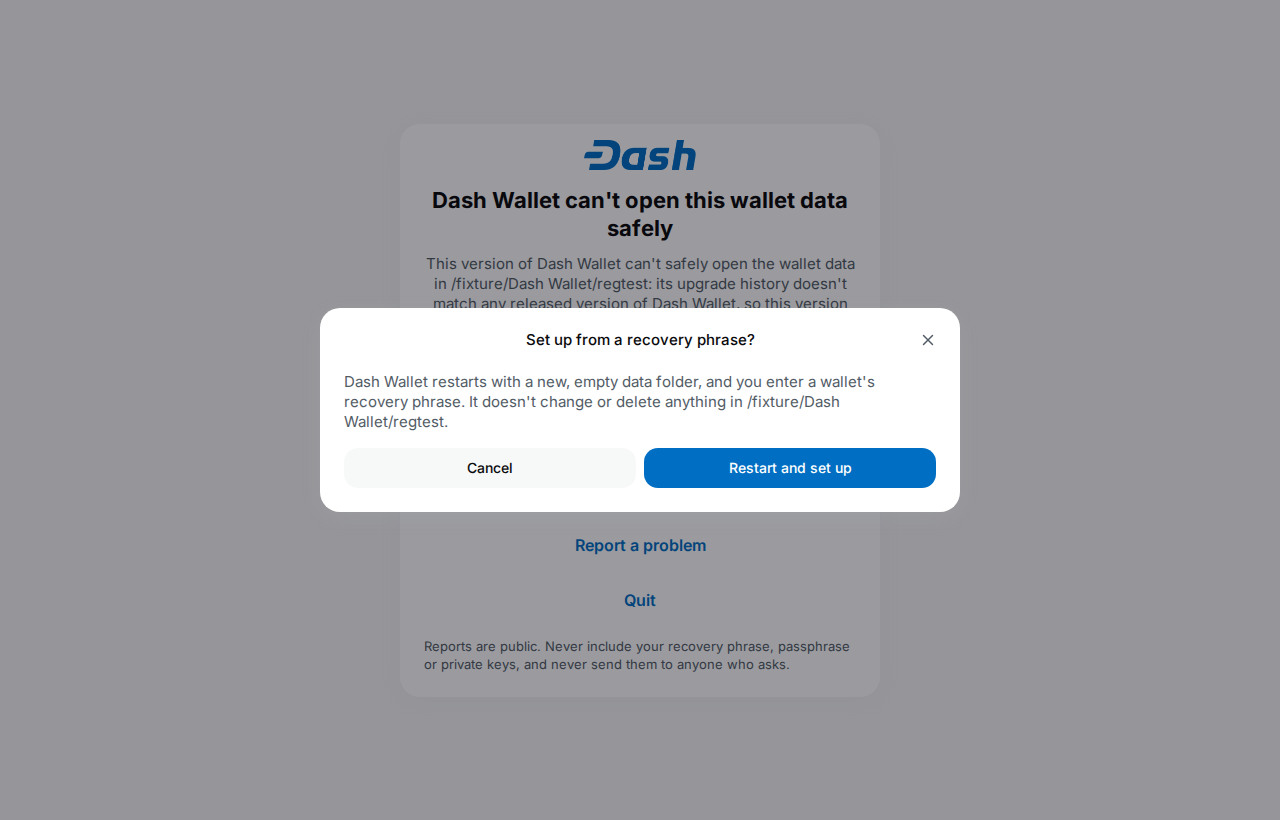
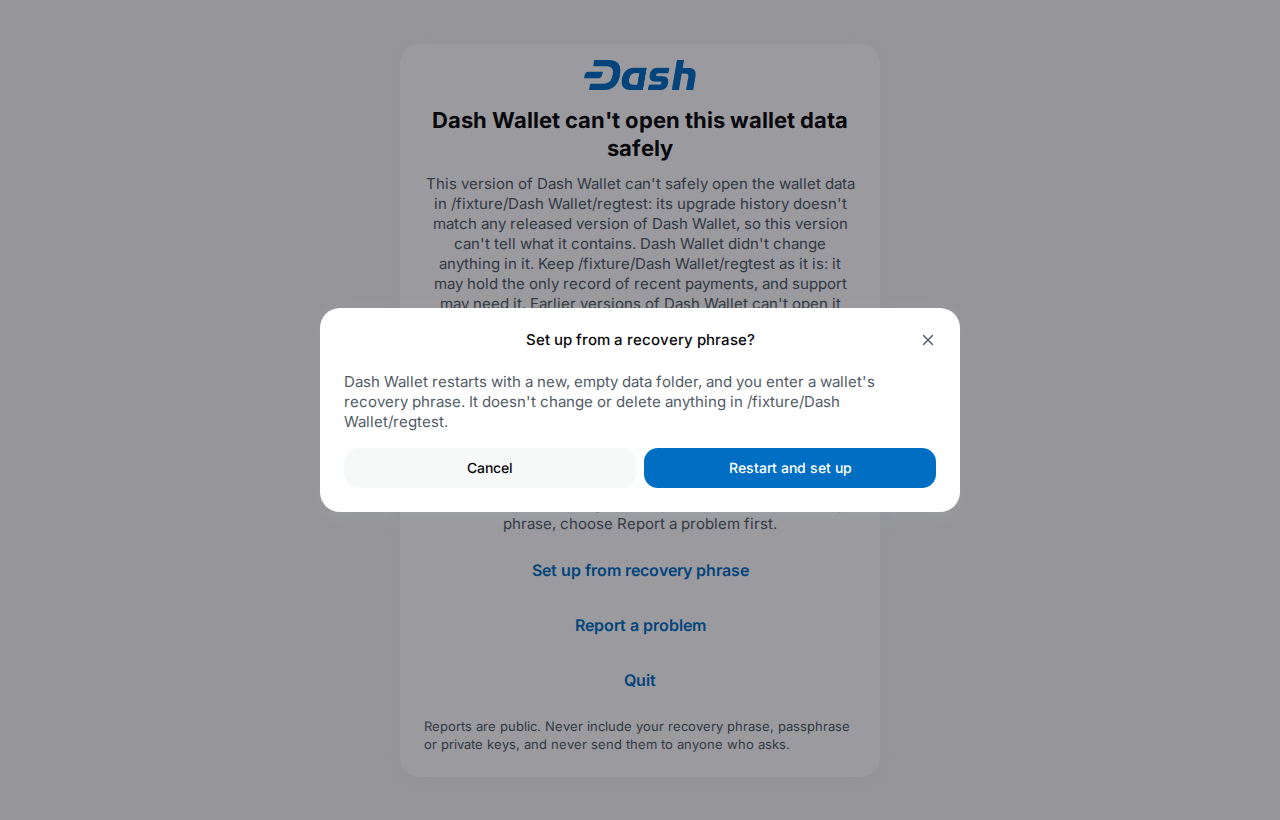
docs: show the retired-backup warning and recovery

diff --git a/dashwallet-desktop/issue-1034/README.md b/dashwallet-desktop/issue-1034/README.md
@@ -1,12 +1,12 @@
 # Restore refusal after an interrupted wallet removal
 
-The Dash Wallet fixture renderer was built independently from both revisions. Each run uses Chromium at 1280 × 820 with English copy and a synthetic regtest folder. The fixture supplies the startup response for an upgraded store whose schema history no longer matches, after wallet removal stopped at the retirement step. Rust integration tests use the committed v0.1.0 wallet stores to verify that the engine refuses to restore a retired snapshot and permits recovery into a fresh folder.
+The Dash Wallet fixture renderer was built independently from both revisions. Each run uses the pinned Playwright Docker image and Chromium at 1280 × 820 with English copy and a synthetic regtest folder. The fixture supplies the startup response for an upgraded store whose schema history no longer matches, after wallet removal stopped at the retirement step. Rust integration tests use the committed v0.1.0 wallet stores to verify that the engine refuses to restore a retired snapshot and permits recovery into a fresh folder.
 
-| State | Before · eebb848bd12b8a7e6fb56aef3b281a852fb880fc | After · cb8b465811aa23d6432a4300d3cb632f106d3a85 |
+| State | Before · eebb848bd12b8a7e6fb56aef3b281a852fb880fc | After · 491d0bd925cb006d82e95263d1e3af14d8317e26 |
 | --- | --- | --- |
 | Startup refusal, light | [Restore earlier data](before-light-refusal.png) | [Set up from recovery phrase](after-light-refusal.png) |
 | Startup refusal, dark | [Restore earlier data](before-dark-refusal.png) | [Set up from recovery phrase](after-dark-refusal.png) |
 | Confirmation, light | [Restart and restore](before-light-confirmation.png) | [Restart and set up](after-light-confirmation.png) |
 | Confirmation, dark | [Restart and restore](before-dark-confirmation.png) | [Restart and set up](after-dark-confirmation.png) |
 
-Each run verified that Cancel closes the confirmation without restarting the app.
+The updated refusal names the retirement and explains that payment holds and in-progress work stay in the original folder. Each run verified that Cancel closes the confirmation without restarting the app.
